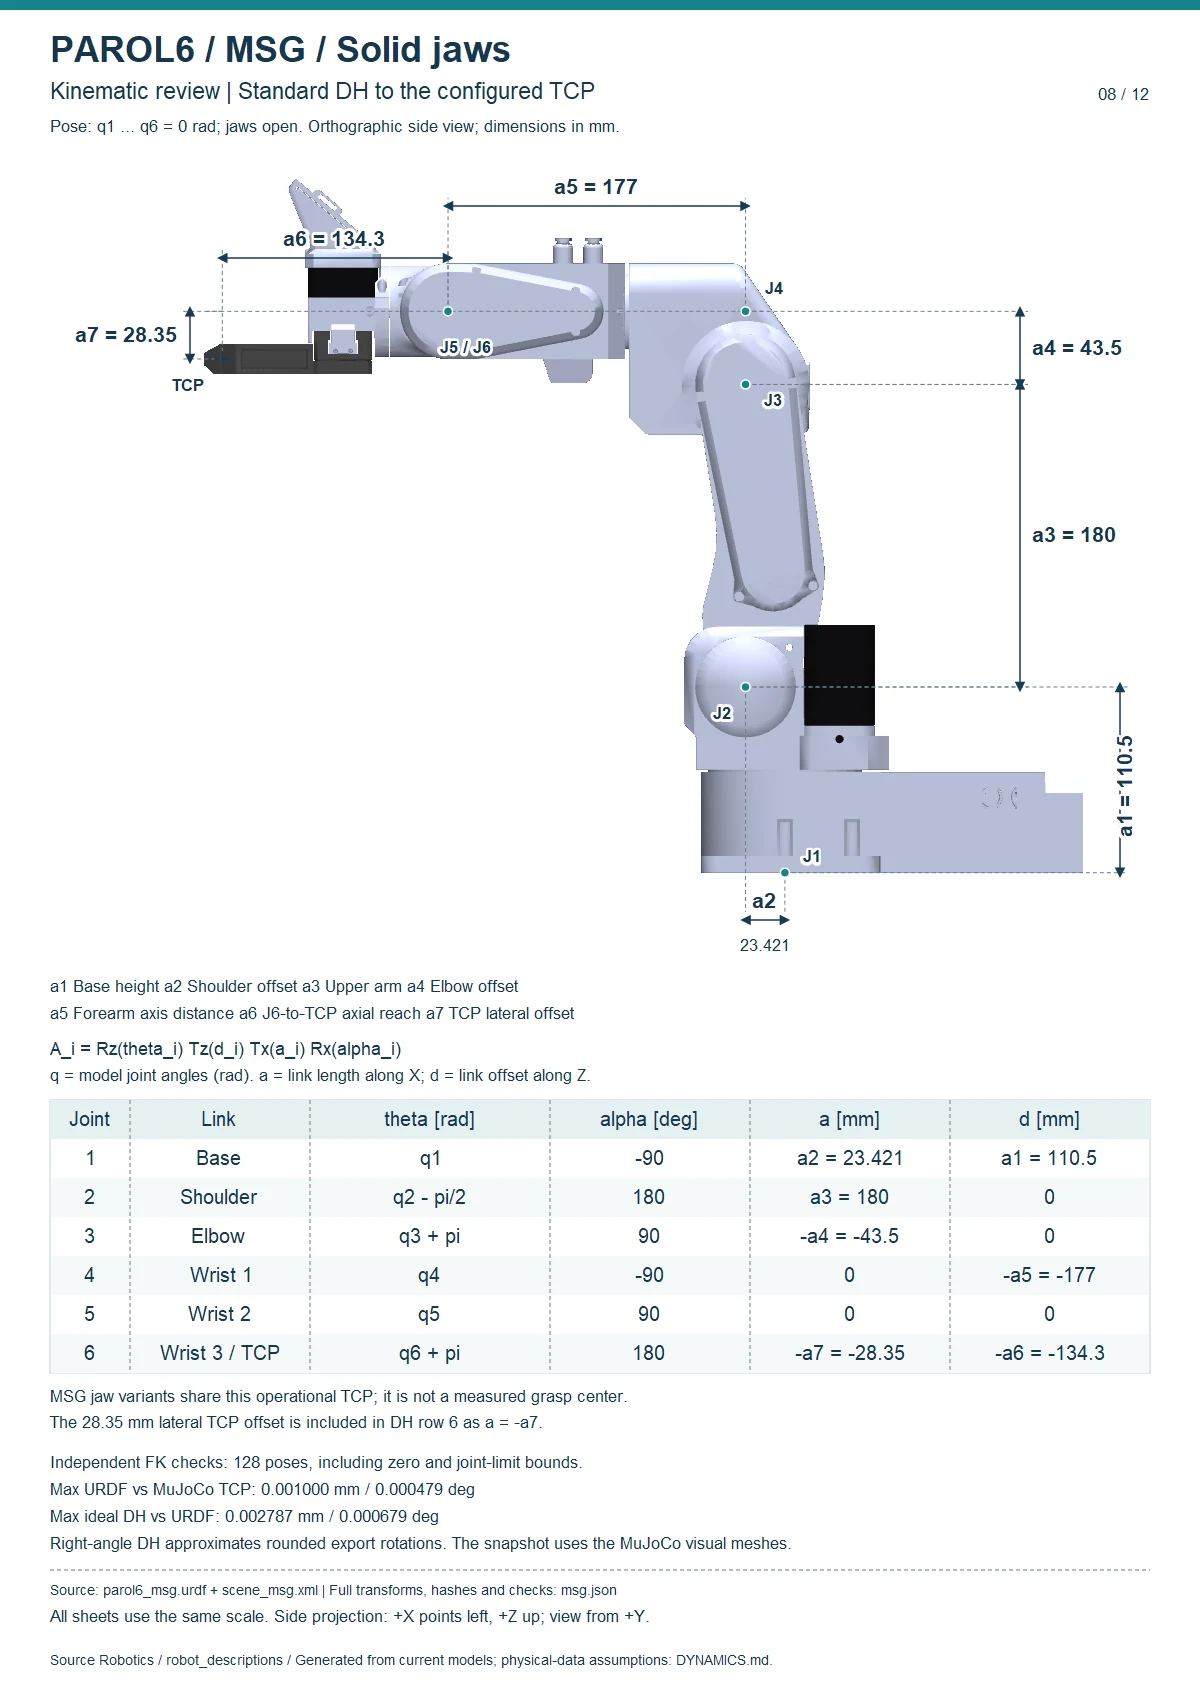
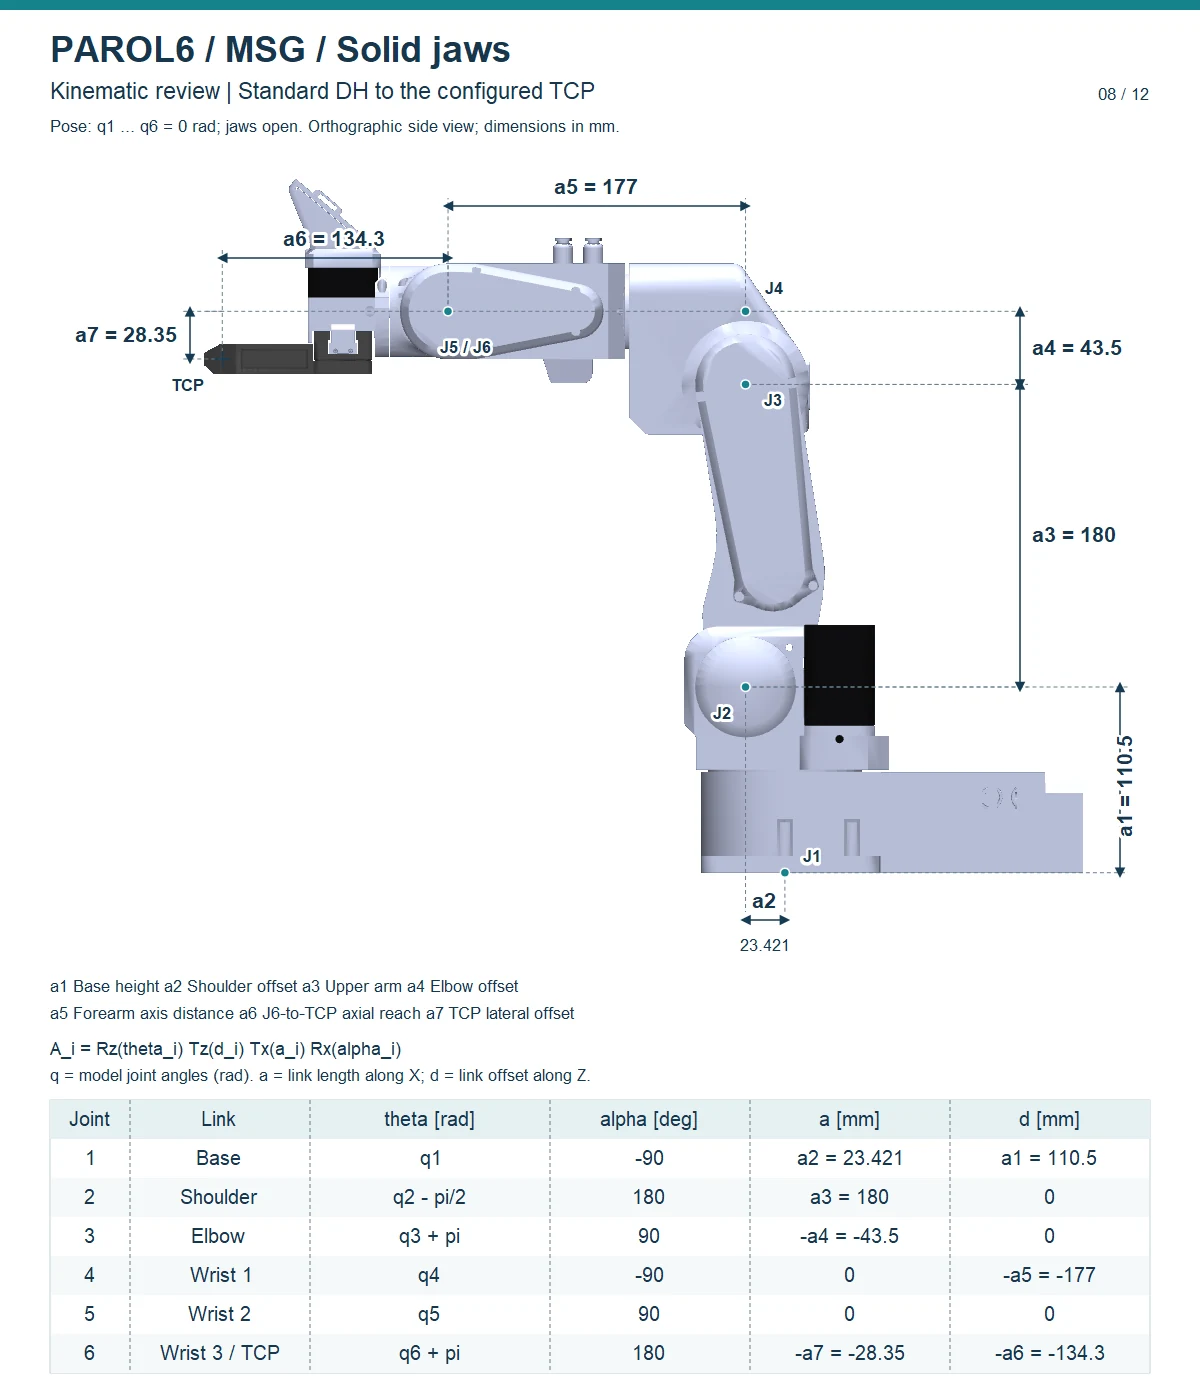
The model's data: joint limits and ranges, cleaner sheets, no red captions
The owner decided (2026-11-01) that the docs follow the robot_descriptions 2.13.0
model for now: a5 = 177 mm, the pneumatic gripper's a6 = 62.3 mm, the model's joint
limits.
- Joint limits and directions: the model's limits in the software's angles (J1
  ±97.40°, J2 -146.15° to -32.70°, J3 105.52° to 294.59°, J4 ±114.59°, J5 ±120.32°, J6
  one turn) with their ranges; the steps column is gone; a note gives the earlier
  limits that firmware 1 and the commander still enforce.
- Specifications: the joint ranges from the model.
- Dimensions and kinematics: the note now says the docs give the model's dimensions
  and the software still computes with the earlier ones.
- The six review sheets end at the DH table (notes, checks and footer cropped off).
- The configurations figure without the red joint-limit captions (owner's request);
  the page still says only (a) is within every limit.

diff --git a/docs/03-technical-data/joint-limits.md b/docs/03-technical-data/joint-limits.md
@@ -21,17 +21,22 @@ stands square to the base, and the software reports the standby pose as follows.
 
 ## Limits
 
-The limits the software enforces, in degrees, as the robot reaches them after homing. Both the commander and the
-Python API refuse a target outside them.
+The joint limits of PAROL6's model in [robot_descriptions](https://github.com/Source-Robotics/robot_descriptions)
+(version 2.13.0), in degrees, in the angles the software shows (the standby pose above).
 
-| Joint | Negative limit | Standby | Positive limit | In motor steps (from standby) |
+| Joint | Negative limit | Standby | Positive limit | Range |
 |---|---|---|---|---|
-| J1 | −123.05° | 0° (DH) | +123.05° | −14000 to +14000 |
-| J2 | −145.01° | −90° | −3.38° | −51587 to −1200 |
-| J3 | 107.87° | 180° | 287.87° | 34700 to 92605 |
-| J4 | −105.47° | 0° | +105.47° | −7500 to +7500 |
-| J5 | −90° | 0° | +90° | −6400 to +6400 |
-| J6 | 0° | 180° | 360° | one turn |
+| J1 | −97.40° | 0° (DH) | +97.40° | 194.8° |
+| J2 | −146.15° | −90° | −32.70° | 113.4° |
+| J3 | 105.52° | 180° | 294.59° | 189.1° |
+| J4 | −114.59° | 0° | +114.59° | 229.2° |
+| J5 | −120.32° | 0° | +120.32° | 240.6° |
+| J6 | | 180° | | one turn: the model has no limit, the cables do |
+
+!!! note "The firmware and the commander still use the earlier limits"
+    Firmware 1 and the commander software enforce the limits of the earlier model until they are updated: J1
+    ±123.05°, J2 −145.01° to −3.38°, J3 107.87° to 287.87°, J4 ±105.47°, J5 ±90°, J6 0° to 360°. A target
+    between the two is accepted by them; keep to the table above.
 
 Joints 2 and 3 are limited in both directions by their geometry and their switches; joints 1 and 4 by printed
 blockers; joint 5 by the length of its belt path; joint 6 only by the cables and tubes that run through the wrist.

diff --git a/docs/theory/configurations-and-singularities.md b/docs/theory/configurations-and-singularities.md
@@ -19,14 +19,12 @@ green, wrist red, flange orange.
 - **Wrist flipped or not**: joint 5 positive or negative; joints 4 and 6 turn by 180° to keep the tool where it
   is.
 
-![The eight configurations of PAROL6 for one tool pose: elbow up or down, shoulder right or left, wrist flipped or not; captions in red name the joints that would be outside their limits](../assets/theory/configurations_parol6.webp){ width="700" }
+![The eight configurations of PAROL6 for one tool pose: elbow up or down, shoulder right or left, wrist flipped or not](../assets/theory/configurations_parol6.webp){ width="700" }
 
 Mathematically all eight reach the pose. On the real robot, the joint limits rule most of them out: for this pose
-only (a) is within every limit the software enforces ([Joint limits and directions](../03-technical-data/joint-limits.md)),
-and a red caption names the joints that would have to go beyond theirs. Several of the others would also hit the
-robot itself. The poses were solved and drawn from PAROL6's model in
-[robot_descriptions](https://github.com/Source-Robotics/robot_descriptions) and checked against the limits on that
-page.
+only (a) is within every joint limit ([Joint limits and directions](../03-technical-data/joint-limits.md)), and
+several of the others would also hit the robot itself. The poses were solved and drawn from PAROL6's model in
+[robot_descriptions](https://github.com/Source-Robotics/robot_descriptions), the same model the limits come from.
 
 The practical rule: teach the poses of a program in the configuration you want, and make the move between two
 configurations a joint move (`MoveJoint`, `move_j`), never a Cartesian one.

diff --git a/docs/03-technical-data/kinematics.md b/docs/03-technical-data/kinematics.md
@@ -63,10 +63,10 @@ configuration. Click a sheet to enlarge it.
 A riser under the base changes a1, and a tool of your own changes a6 and a7: tell the software about the tool
 ([Tools and the TCP](../programming/02-python-api/tools-and-tcp.md)), or the poses it reports will be wrong.
 
-!!! note "The software computes with the earlier model"
-    The Python API (its built-in URDF) and the commander software use a5 = 176.35 mm, the value of the earlier
-    model, and the commander uses a6 = 62.8 mm for the pneumatic gripper. The models above use 177 mm and 62.3 mm.
-    A pose the software reports can therefore differ from these sheets by up to about 0.65 mm.
+!!! note "The software still computes with the earlier model"
+    These pages give the model's dimensions. Until the software is updated, the Python API (its built-in URDF) and
+    the commander software compute with a5 = 176.35 mm, and the commander with a6 = 62.8 mm for the pneumatic
+    gripper, so a pose they report can differ from these sheets by up to about 0.65 mm.
 
 ## Kinematic structure
 

diff --git a/docs/03-technical-data/specifications.md b/docs/03-technical-data/specifications.md
@@ -26,14 +26,15 @@
 
 | Joint | Range |
 |---|---|
-| Joint 1 | 246° (±123°) |
-| Joint 2 | 142° |
-| Joint 3 | 180° |
-| Joint 4 | 211° (±105°) |
-| Joint 5 | 180° (±90°) |
+| Joint 1 | 194.8° (±97.4°) |
+| Joint 2 | 113.4° |
+| Joint 3 | 189.1° |
+| Joint 4 | 229.2° (±114.6°) |
+| Joint 5 | 240.6° (±120.3°) |
 | Joint 6 | 360° in software; mechanically unlimited, but see [Moving the robot by hand](../02-safety/moving-by-hand.md) |
 
-The exact limits, in degrees and in motor steps, are on [Joint limits and directions](joint-limits.md).
+The ranges are those of the robot's model (robot_descriptions 2.13.0); the exact limits are on
+[Joint limits and directions](joint-limits.md).
 
 ## Speeds
 
